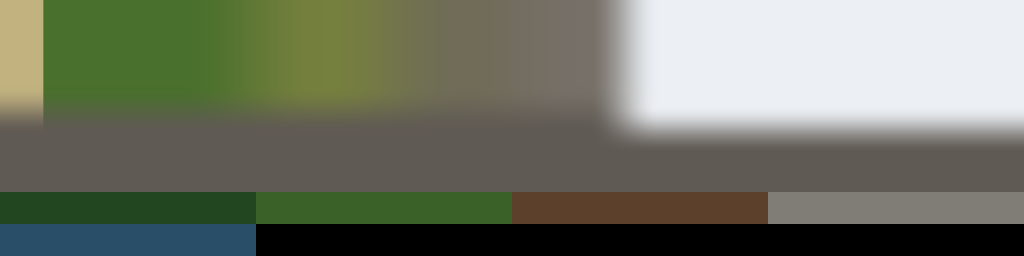
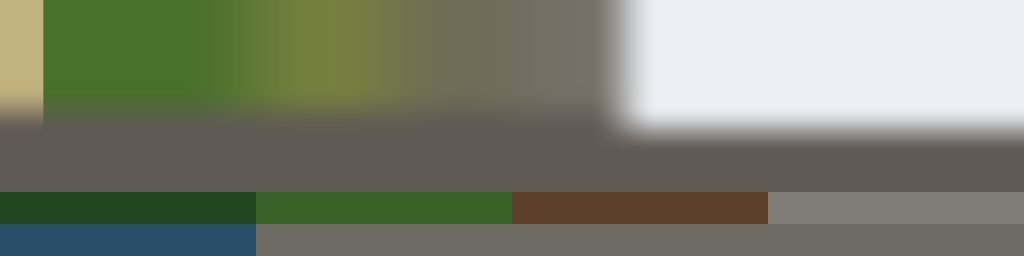
Landscape demo: review fixes
- Terrain palette v stays on rows 0..191 texel centres (v = 0 blended in
  the bottom swatch row: bluish specks on flat ground); spare swatches
  filled with neutral grey.
- groundHeight(): the drawn grid's height (same triangle split as the
  mesh), used for tree/rock placement and the camera floor, so trees
  don't float and the camera stays above the visible ground.
- mesh-model's back-face check can now fail (explicit +Z normal on the
  clockwise quad; verified by mutation).
- Fly camera: Space/C along world Y; haze toggle survives L; timing env
  var read once; first frame's delta skipped; noon sun in the south.
- static_assert(sizeof(Vertex) == 32) in renderer.h; doc: a mesh model
  without a material has no material slots.

Changed region(s): [[0.25, 0.875, 1.0, 1.0]]

diff --git a/example/landscape/main.cpp b/example/landscape/main.cpp
@@ -36,35 +36,35 @@ namespace {
             }
             (void)setCameraRotation(yaw, pitch);
 
+            // W/S along the view, A/D sideways, Space/C straight up/down (world Y, whatever the pitch).
+            const glm::vec3 forward = getCameraForward().value();
+            const glm::vec3 right = glm::normalize(glm::cross(forward, glm::vec3(0.0f, 1.0f, 0.0f)));
             glm::vec3 move(0.0f);
-            if (isKeyDown(Key::W).value()) move.z += 1.0f;
-            if (isKeyDown(Key::S).value()) move.z -= 1.0f;
-            if (isKeyDown(Key::D).value()) move.x += 1.0f;
-            if (isKeyDown(Key::A).value()) move.x -= 1.0f;
+            if (isKeyDown(Key::W).value()) move += forward;
+            if (isKeyDown(Key::S).value()) move -= forward;
+            if (isKeyDown(Key::D).value()) move += right;
+            if (isKeyDown(Key::A).value()) move -= right;
             if (isKeyDown(Key::Space).value()) move.y += 1.0f;
             if (isKeyDown(Key::C).value()) move.y -= 1.0f;
             float speed = isKeyDown(Key::LeftShift).value() ? 400.0f : 50.0f;
-            if (glm::length(move) > 0.0f) {
-                (void)setCameraPosition(position);
-                (void)moveCameraRelative(glm::normalize(move) * speed * dt);
-                position = getCameraPosition().value();
-            }
+            if (glm::length(move) > 0.0f) position += glm::normalize(move) * speed * dt;
             // Never below the ground or the water, never off the edge of the world.
             const float edge = Landscape::worldSize * 0.5f - 10.0f;
             position.x = std::clamp(position.x, -edge, edge);
             position.z = std::clamp(position.z, -edge, edge);
-            float floor = std::max(Landscape::terrainHeight(position.x, position.z), Landscape::waterLevel) + 2.0f;
+            float floor = std::max(Landscape::groundHeight(position.x, position.z), Landscape::waterLevel) + 2.0f;
             position.y = std::max(position.y, floor);
             (void)setCameraPosition(position);
         }
     };
 
-    // Time of day in hours → the way the sunlight travels. Sunrise at 6:00 in the east, sunset at 18:00 in the
-    // west, at most 60° high at noon (and as low at midnight, below the horizon).
+    // Time of day in hours → the way the sunlight travels. Sunrise at 6:00 in the east (+x), sunset at 18:00 in the
+    // west, about 68° high at noon in the south (+z, behind the start view, so the mountains are lit from the front),
+    // as far below the horizon at midnight.
     glm::vec3 sunDirection(float hours) {
         const float pi = std::numbers::pi_v<float>;
         float angle = (hours - 6.0f) / 24.0f * 2.0f * pi;          // 0 at sunrise, pi at sunset
-        glm::vec3 toSun(std::cos(angle), std::sin(angle) * std::sin(pi / 3.0f), -0.35f);
+        glm::vec3 toSun(std::cos(angle), std::sin(angle) * std::sin(pi / 3.0f), 0.35f);
         return -glm::normalize(toSun);
     }
 
@@ -72,7 +72,7 @@ namespace {
         return createMeshModel(mesh.vertices, mesh.indices, material).value();
     }
 
-    void addInstances(Handel<Model> model, std::span<const Landscape::Placement> placements) {
+    void addInstances(Handel<Model> model, std::span<const Landscape::Placement> placements, bool castsShadows = true) {
         for (const Landscape::Placement& p : placements) {
             Handel<Instance> instance = createInstance(model).value();
             Transform t;
@@ -80,6 +80,7 @@ namespace {
             t.rotation = glm::angleAxis(p.yaw, glm::vec3(0.0f, 1.0f, 0.0f));
             t.scale = glm::vec3(p.scale);
             (void)setInstanceTransform(instance, t);
+            (void)setCastsShadows(instance, castsShadows);
             (void)addInstanceToScene(instance);
         }
     }
@@ -99,8 +100,9 @@ int main() {
     auto palette = createMaterial(createTexture(LANDSCAPE_DIR "/palette.png").value()).value();
 
     std::puts("Building the world...");
-    (void)addInstanceToScene(createInstance(meshModel(Landscape::makeTerrain(513), palette)).value());
-    (void)addInstanceToScene(createInstance(meshModel(Landscape::makeWater(), palette)).value());
+    const Landscape::Placement origin{glm::vec3(0.0f), 0.0f, 1.0f};
+    addInstances(meshModel(Landscape::makeTerrain(), palette), {&origin, 1});
+    addInstances(meshModel(Landscape::makeWater(), palette), {&origin, 1}, false);   // flat water casts nothing
     auto trees = Landscape::placeTrees(5000, 7);
     addInstances(meshModel(Landscape::makeTree(), palette), trees);
     auto rocks = Landscape::placeRocks(240, 11);
@@ -118,11 +120,16 @@ int main() {
     bool haze = true, landscape = true;
 
     FlyCamera camera;
-    float secondsSincePrint = 0.0f;
+    // NRE_LANDSCAPE_SECONDS=N quits after N seconds, for timing runs. The frame rate is printed every 2 s.
+    const char* limitText = std::getenv("NRE_LANDSCAPE_SECONDS");
+    const float limit = limitText ? float(std::atof(limitText)) : 0.0f;
+    float secondsSincePrint = 0.0f, elapsed = 0.0f;
+    bool firstFrame = true;     // its delta time includes building the world
     while (!windowShouldClose().value()) {
         (void)pollEvents();
         if (isKeyPressed(Key::Escape).value()) break;
-        float dt = getDeltaTime().value();
+        float dt = firstFrame ? 0.0f : getDeltaTime().value();
+        firstFrame = false;
 
         camera.update(dt);
         float hoursPerSecond = isKeyDown(Key::LeftShift).value() ? 6.0f : 1.0f;
@@ -138,7 +145,7 @@ int main() {
         if (isKeyPressed(Key::L).value()) {
             landscape = !landscape;
             (void)setSceneLighting(landscape ? SceneLighting::Landscape : SceneLighting::Small);
-            if (landscape && !haze) (void)setHaze(0.0f);      // setSceneLighting resets haze to the mode's default
+            (void)setHaze(haze ? 8000.0f : 0.0f);       // setSceneLighting resets haze to the mode's default
             std::printf("%s lighting\n", landscape ? "Landscape" : "Small");
         }
         if (isKeyPressed(Key::T).value() || isKeyPressed(Key::G).value()) {
@@ -146,17 +153,14 @@ int main() {
         }
 
         (void)renderFrame();
-        // NRE_LANDSCAPE_SECONDS=N: quit after N seconds (for timing runs); prints the frame rate every 2 s.
         secondsSincePrint += dt;
         if (secondsSincePrint >= 2.0f) {
             secondsSincePrint = 0.0f;
             float fps = getFPS().value();
             std::printf("%.0f fps (%.2f ms)\n", fps, 1000.0f / fps);
         }
-        static const char* limit = std::getenv("NRE_LANDSCAPE_SECONDS");
-        static float elapsed = 0.0f;
         elapsed += dt;
-        if (limit && elapsed > std::atof(limit)) break;
+        if (limitText && elapsed > limit) break;
     }
     (void)shutdown();
     return 0;

diff --git a/example/landscape/world.cpp b/example/landscape/world.cpp
@@ -11,7 +11,8 @@ namespace Landscape {
     namespace {
         // Palette layout (keep in sync with makePalette.py).
         constexpr float paletteMinHeight = -30.0f, paletteMaxHeight = 700.0f;
-        constexpr float terrainRows = 191.0f / 256.0f;     // v range used by the terrain colours
+        constexpr float terrainRows = 192.0f;              // palette rows used by the terrain colours
+        constexpr float paletteHeight = 256.0f;
         glm::vec2 swatch(int column, int row) { return {(column + 0.5f) / 4.0f, (row + 16) / 256.0f}; }
         const glm::vec2 darkFoliage = swatch(0, 192), lightFoliage = swatch(1, 192), bark = swatch(2, 192);
         const glm::vec2 rockGrey = swatch(3, 192), water = swatch(0, 224);
@@ -90,7 +91,7 @@ namespace Landscape {
             std::vector<Placement> out;
             for (int tries = 0; int(out.size()) < count && tries < count * 50; ++tries) {
                 float x = coord(rng), z = coord(rng);
-                float h = terrainHeight(x, z);
+                float h = groundHeight(x, z);
                 if (!fits(x, z, h, terrainSlope(x, z), unit(rng))) continue;
                 out.push_back({glm::vec3(x, h - 0.3f, z), unit(rng) * 2.0f * std::numbers::pi_v<float>,
                                0.7f + 0.6f * unit(rng)});
@@ -114,11 +115,26 @@ namespace Landscape {
         return h;
     }
 
+    float groundHeight(float x, float z) {
+        constexpr float step = worldSize / float(terrainResolution - 1);
+        float gx = std::clamp((x + worldSize * 0.5f) / step, 0.0f, float(terrainResolution - 1) - 1e-3f);
+        float gz = std::clamp((z + worldSize * 0.5f) / step, 0.0f, float(terrainResolution - 1) - 1e-3f);
+        float i = std::floor(gx), j = std::floor(gz), fx = gx - i, fz = gz - j;
+        auto at = [](float i, float j) {
+            return terrainHeight(-worldSize * 0.5f + i * step, -worldSize * 0.5f + j * step);
+        };
+        float a = at(i, j), b = at(i + 1, j), c = at(i, j + 1), d = at(i + 1, j + 1);
+        // makeTerrain splits each cell along the b–c diagonal: triangles (a, c, b) and (b, c, d).
+        if (fx + fz <= 1.0f) return a + fx * (b - a) + fz * (c - a);
+        return d + (1.0f - fx) * (c - d) + (1.0f - fz) * (b - d);
+    }
+
     float terrainSlope(float x, float z) {
         return 1.0f - terrainNormal(x, z).y;
     }
 
-    MeshData makeTerrain(int resolution) {
+    MeshData makeTerrain() {
+        constexpr int resolution = terrainResolution;
         MeshData m;
         m.vertices.reserve(size_t(resolution) * resolution);
         const float step = worldSize / float(resolution - 1);
@@ -128,8 +144,10 @@ namespace Landscape {
                 float h = terrainHeight(x, z);
                 glm::vec3 normal = terrainNormal(x, z);
                 float u = std::clamp((h - paletteMinHeight) / (paletteMaxHeight - paletteMinHeight), 0.002f, 0.998f);
-                float v = std::clamp(1.0f - normal.y, 0.0f, 1.0f) * 2.0f;     // slopes beyond 60° all read as cliff
-                m.vertices.push_back({glm::vec3(x, h, z), normal, glm::vec2(u, std::min(v, 1.0f) * terrainRows)});
+                float steep = std::min(std::clamp(1.0f - normal.y, 0.0f, 1.0f) * 2.0f, 1.0f);   // ≥ 60°: cliff
+                // Texel centres of rows 0..191 only: v = 0 would blend in row 255 (the sampler repeats).
+                float v = (0.5f + steep * (terrainRows - 1.0f)) / paletteHeight;
+                m.vertices.push_back({glm::vec3(x, h, z), normal, glm::vec2(u, v)});
             }
         }
         m.indices.reserve(size_t(resolution - 1) * (resolution - 1) * 6);
@@ -179,7 +197,8 @@ namespace Landscape {
             glm::vec3 q = p * r * glm::vec3(1.1f, 0.7f, 0.9f);
             m.vertices.push_back({q + glm::vec3(0.0f, 0.4f, 0.0f), glm::vec3(0.0f), rockGrey});
         }
-        // Midpoints are duplicated per face, so the normals come out faceted, which suits a rock.
+        // Edge midpoints are duplicated where parent faces meet, so the computed normals give smooth patches with
+        // creases between them: lumpy enough for a rock.
         for (glm::uvec3 f : faces) m.indices.insert(m.indices.end(), {f.x, f.y, f.z});
         return m;
     }

diff --git a/tests/visual/visualTest.cpp b/tests/visual/visualTest.cpp
@@ -1518,7 +1518,6 @@ namespace {
     bool nearF(float a, float b, float relative) { return std::fabs(a - b) <= relative * std::max(1.0f, std::fabs(b)); }
 }
 
-// Two boxes side by side, 4 m ahead: picking at each one's projected centre finds it, on its front face.
 // createMeshModel: a 2x2 quad built in code, 3 m in front of the camera, lit head-on by the sun.
 // Zero normals must be computed to the same result as explicit ones; clockwise triangles are back faces (culled);
 // the mesh is pickable like a loaded model; bad indices are misuse (reported in Debug).
@@ -1546,7 +1545,8 @@ NRE_SCENARIO(mesh_model) {
     };
     Image computed = show(TRY(createMeshModel(quad(glm::vec3(0.0f)), ccw)));
     Image given = show(TRY(createMeshModel(quad(glm::vec3(0.0f, 0.0f, 1.0f)), ccw)));
-    Image backFace = show(TRY(createMeshModel(quad(glm::vec3(0.0f)), cw)));
+    // Explicit +Z normal: if the clockwise quad weren't culled it would be lit (head-on), not black.
+    Image backFace = show(TRY(createMeshModel(quad(glm::vec3(0.0f, 0.0f, 1.0f)), cw)));
     saveCapture(computed, "mesh-model.png");
     const glm::vec3 lit = computed.at(centre.x, centre.y), background = backFace.at(centre.x, centre.y);
     CHECK(luminance(lit) > 0.2f);
@@ -1567,7 +1567,7 @@ NRE_SCENARIO(mesh_model) {
     return true;
 }
 
-// The landscape demo's world (example/landscape) at noon, golden hour and dusk, from the demo's start view.
+// The landscape demo's world (example/landscape) at noon, golden hour and dusk, from (10 m above) the demo's start view.
 // Saves landscape-<time>.png to NRE_TEST_OUT. Checks only that it renders sensibly: sky above, lit ground below,
 // golden hour warmer than noon, dusk darker; the pictures are for looking at.
 NRE_SCENARIO(landscape_demo) {
@@ -1583,13 +1583,13 @@ NRE_SCENARIO(landscape_demo) {
         }
     };
     const Landscape::Placement origin{glm::vec3(0.0f), 0.0f, 1.0f};
-    add(Landscape::makeTerrain(513), {&origin, 1});
+    add(Landscape::makeTerrain(), {&origin, 1});
     add(Landscape::makeWater(), {&origin, 1});
     add(Landscape::makeTree(), Landscape::placeTrees(5000, 7));
     add(Landscape::makeRock(1), Landscape::placeRocks(240, 11));
     TRY(setSceneLighting(SceneLighting::Landscape));
     glm::vec3 eye(-600.0f, 0.0f, 1400.0f);
-    eye.y = std::max(Landscape::terrainHeight(eye.x, eye.z), Landscape::waterLevel) + 12.0f;
+    eye.y = std::max(Landscape::groundHeight(eye.x, eye.z), Landscape::waterLevel) + 12.0f;   // 10 m above the demo's start
     TRY(setCameraPosition(eye));
     TRY(setCameraRotation(0.8f, 0.05f));
     auto at = [&](float elevationDeg, const char* name) {
@@ -1603,7 +1603,7 @@ NRE_SCENARIO(landscape_demo) {
     Image noon = at(55.0f, "noon"), golden = at(8.0f, "golden-hour"), dusk = at(-3.0f, "dusk");
     // And up in the mountains (north), for the rock and snow colours.
     glm::vec3 high(200.0f, 0.0f, -300.0f);
-    high.y = Landscape::terrainHeight(high.x, high.z) + 60.0f;
+    high.y = Landscape::groundHeight(high.x, high.z) + 60.0f;
     TRY(setCameraPosition(high));
     TRY(setCameraRotation(0.2f, 0.12f));
     (void)at(35.0f, "mountains");
@@ -1612,13 +1612,14 @@ NRE_SCENARIO(landscape_demo) {
     };
     glm::vec3 noonSky = band(noon, 0.0f, 0.15f), noonGround = band(noon, 0.8f, 1.0f);
     CHECK(noonSky.b > noonSky.r && luminance(noonSky) > 0.2f);
-    CHECK(luminance(noonGround) > 0.05f);
+    CHECK(luminance(noonGround) > 0.05f && noonGround.g > noonGround.b);   // green land, not just the water plane
     glm::vec3 goldenGround = band(golden, 0.8f, 1.0f);
     CHECK(goldenGround.r / std::max(goldenGround.b, 1e-3f) > noonGround.r / std::max(noonGround.b, 1e-3f));
     CHECK(luminance(band(dusk, 0.0f, 1.0f)) < luminance(band(noon, 0.0f, 1.0f)));
     return true;
 }
 
+// Two boxes side by side, 4 m ahead: picking at each one's projected centre finds it, on its front face.
 NRE_SCENARIO(pick_hit) {
     Session session(ApiMode::SceneMode);
     auto model = TRY(createModel(ASSET_DIR "/Box.glb"));

diff --git a/example/landscape/world.h b/example/landscape/world.h
@@ -12,19 +12,23 @@
 namespace Landscape {
     constexpr float worldSize = 4096.0f;    // metres, centred on the origin
     constexpr float waterLevel = 0.0f;
+    constexpr int terrainResolution = 513;  // vertices per side of the terrain mesh (8 m apart)
 
     struct MeshData {
         std::vector<NRE::Vertex> vertices;
         std::vector<uint32_t> indices;
     };
 
-    // Ground height in metres at (x, z). Deterministic, so the camera and the placement use the same terrain.
+    // Ground height in metres at (x, z) from the noise. The drawn terrain samples it every 8 m, so between samples
+    // the two differ; use groundHeight() for anything that has to sit on (or stay above) the visible ground.
     float terrainHeight(float x, float z);
+    // The height of the drawn terrain at (x, z): the same grid and triangle split as makeTerrain().
+    float groundHeight(float x, float z);
     // Slope at (x, z): 0 flat, 1 vertical.
     float terrainSlope(float x, float z);
 
-    // resolution × resolution vertices over the whole world.
-    MeshData makeTerrain(int resolution);
+    // terrainResolution × terrainResolution vertices over the whole world.
+    MeshData makeTerrain();
     MeshData makeTree();                    // a conifer about 10 m tall, base at the origin
     MeshData makeRock(uint32_t seed);       // a lumpy boulder about 2 m across, base at the origin
     MeshData makeWater();                   // one quad at waterLevel covering the world

diff --git a/include/renderer.h b/include/renderer.h
@@ -196,6 +196,9 @@ namespace NRE {
         glm::vec3 normal{0.0f};   // all zero: createMeshModel computes it from the triangles around the vertex
         glm::vec2 uv{0.0f};
     };
+    // Passed as arrays across the library boundary (and to the C API): an app built with glm options that change
+    // vec3's size (GLM_FORCE_DEFAULT_ALIGNED_GENTYPES) must fail here rather than hand over the wrong layout.
+    static_assert(sizeof(Vertex) == 32, "NRE::Vertex must be 32 bytes: don't build with GLM_FORCE_DEFAULT_ALIGNED_GENTYPES");
 
     struct Instance;
     // Where pickInstance() hit: the instance, the distance from the camera along the ray (world units) and the
@@ -244,6 +247,7 @@ namespace NRE {
     // indices into vertices. Vertices whose normal is all zero get one computed from the triangles that use them
     // (area-weighted), so procedural meshes can skip normals. An empty material uses the default one. Draw it through
     // instances like a loaded model; shadows, picking and destroyModel() work the same. The geometry is copied.
+    // Without a material the model has no material slots: change it with setModelMaterial(), not replaceModelMaterial().
     RENDERER_API Result<Handel<Model>> createMeshModel(std::span<const Vertex> vertices, std::span<const uint32_t> indices,
                                                        Handel<Material> material = {});
     // Instances of a destroyed model stay valid but draw nothing.

diff --git a/example/landscape/makePalette.py b/example/landscape/makePalette.py
@@ -2,7 +2,7 @@
 #   Rows 0..191:   terrain. u = height (-30 m .. 700 m), v = slope (flat at the top, steep at row 191).
 #   Rows 192..255: solid swatches, a quarter of the width each, 32 px tall:
 #     row 192: dark foliage | light foliage | bark | rock
-#     row 224: water        | (spare)       | (spare) | (spare)
+#     row 224: water        | (spare, neutral grey ×3)
 # Run: python3 example/landscape/makePalette.py   (keep in sync with world.cpp's height range and swatch UVs)
 import os
 import numpy as np
@@ -34,7 +34,8 @@ for x in range(W):
         img[y, x] = c
 
 swatches = {(0, 192): (34, 70, 32), (1, 192): (58, 98, 40), (2, 192): (92, 64, 44),
-            (3, 192): (128, 124, 118), (0, 224): (40, 78, 104)}
+            (3, 192): (128, 124, 118), (0, 224): (40, 78, 104),
+            (1, 224): (110, 106, 100), (2, 224): (110, 106, 100), (3, 224): (110, 106, 100)}   # spare: neutral
 for (col, row), c in swatches.items():
     img[row:row + 32, col * W // 4:(col + 1) * W // 4] = c
 
